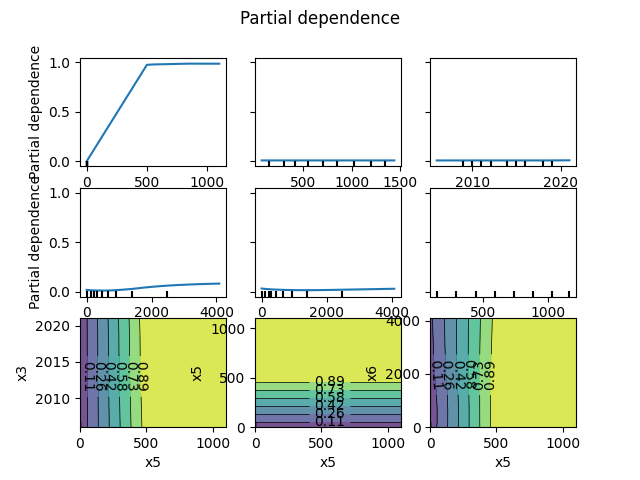
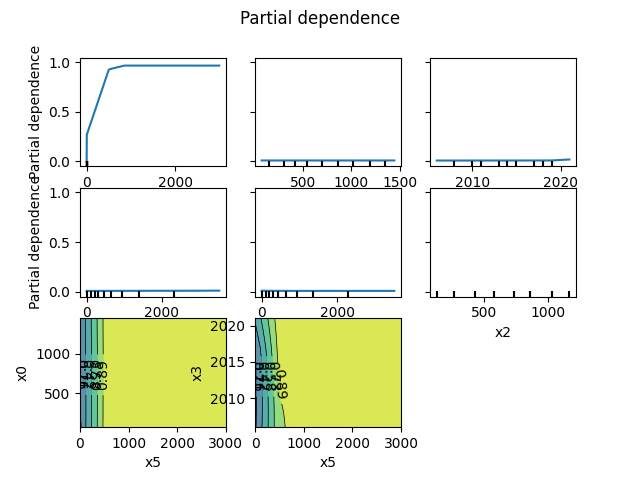
PDP plots

diff --git a/interpretability.py b/interpretability.py
@@ -295,13 +295,13 @@ if __name__ == "__main__":
 
             elif method == "PDP":
                 # important features (hard coded)
-                important_features = ['Outstanding Reserve', 'UW Year', 'Last Trans Date', 'Incurred Loss', 'Paid Loss', 'Reported Date']
+                important_features = ['ChronicDiseases', 'AnnualIncome', 'FamilyMembers', 'FrequentFlyer', 'Age', 'GraduateOrNot']
                 # indices of important features
                 important_feature_indices = [
                     feature_names.get_loc(feat) for feat in important_features
                 ]
                 # interactions between most important features and few other features (hard coded)
-                interaction_features = [(important_feature_indices[0], i) for i in [3, 5, 6]]
+                interaction_features = [(important_feature_indices[0], important_feature_indices[1]), (important_feature_indices[0], important_feature_indices[2])]
                 # combine both
                 features_to_plot = important_feature_indices + interaction_features
                 # 1D PD for the important features + a 2D interaction plot
